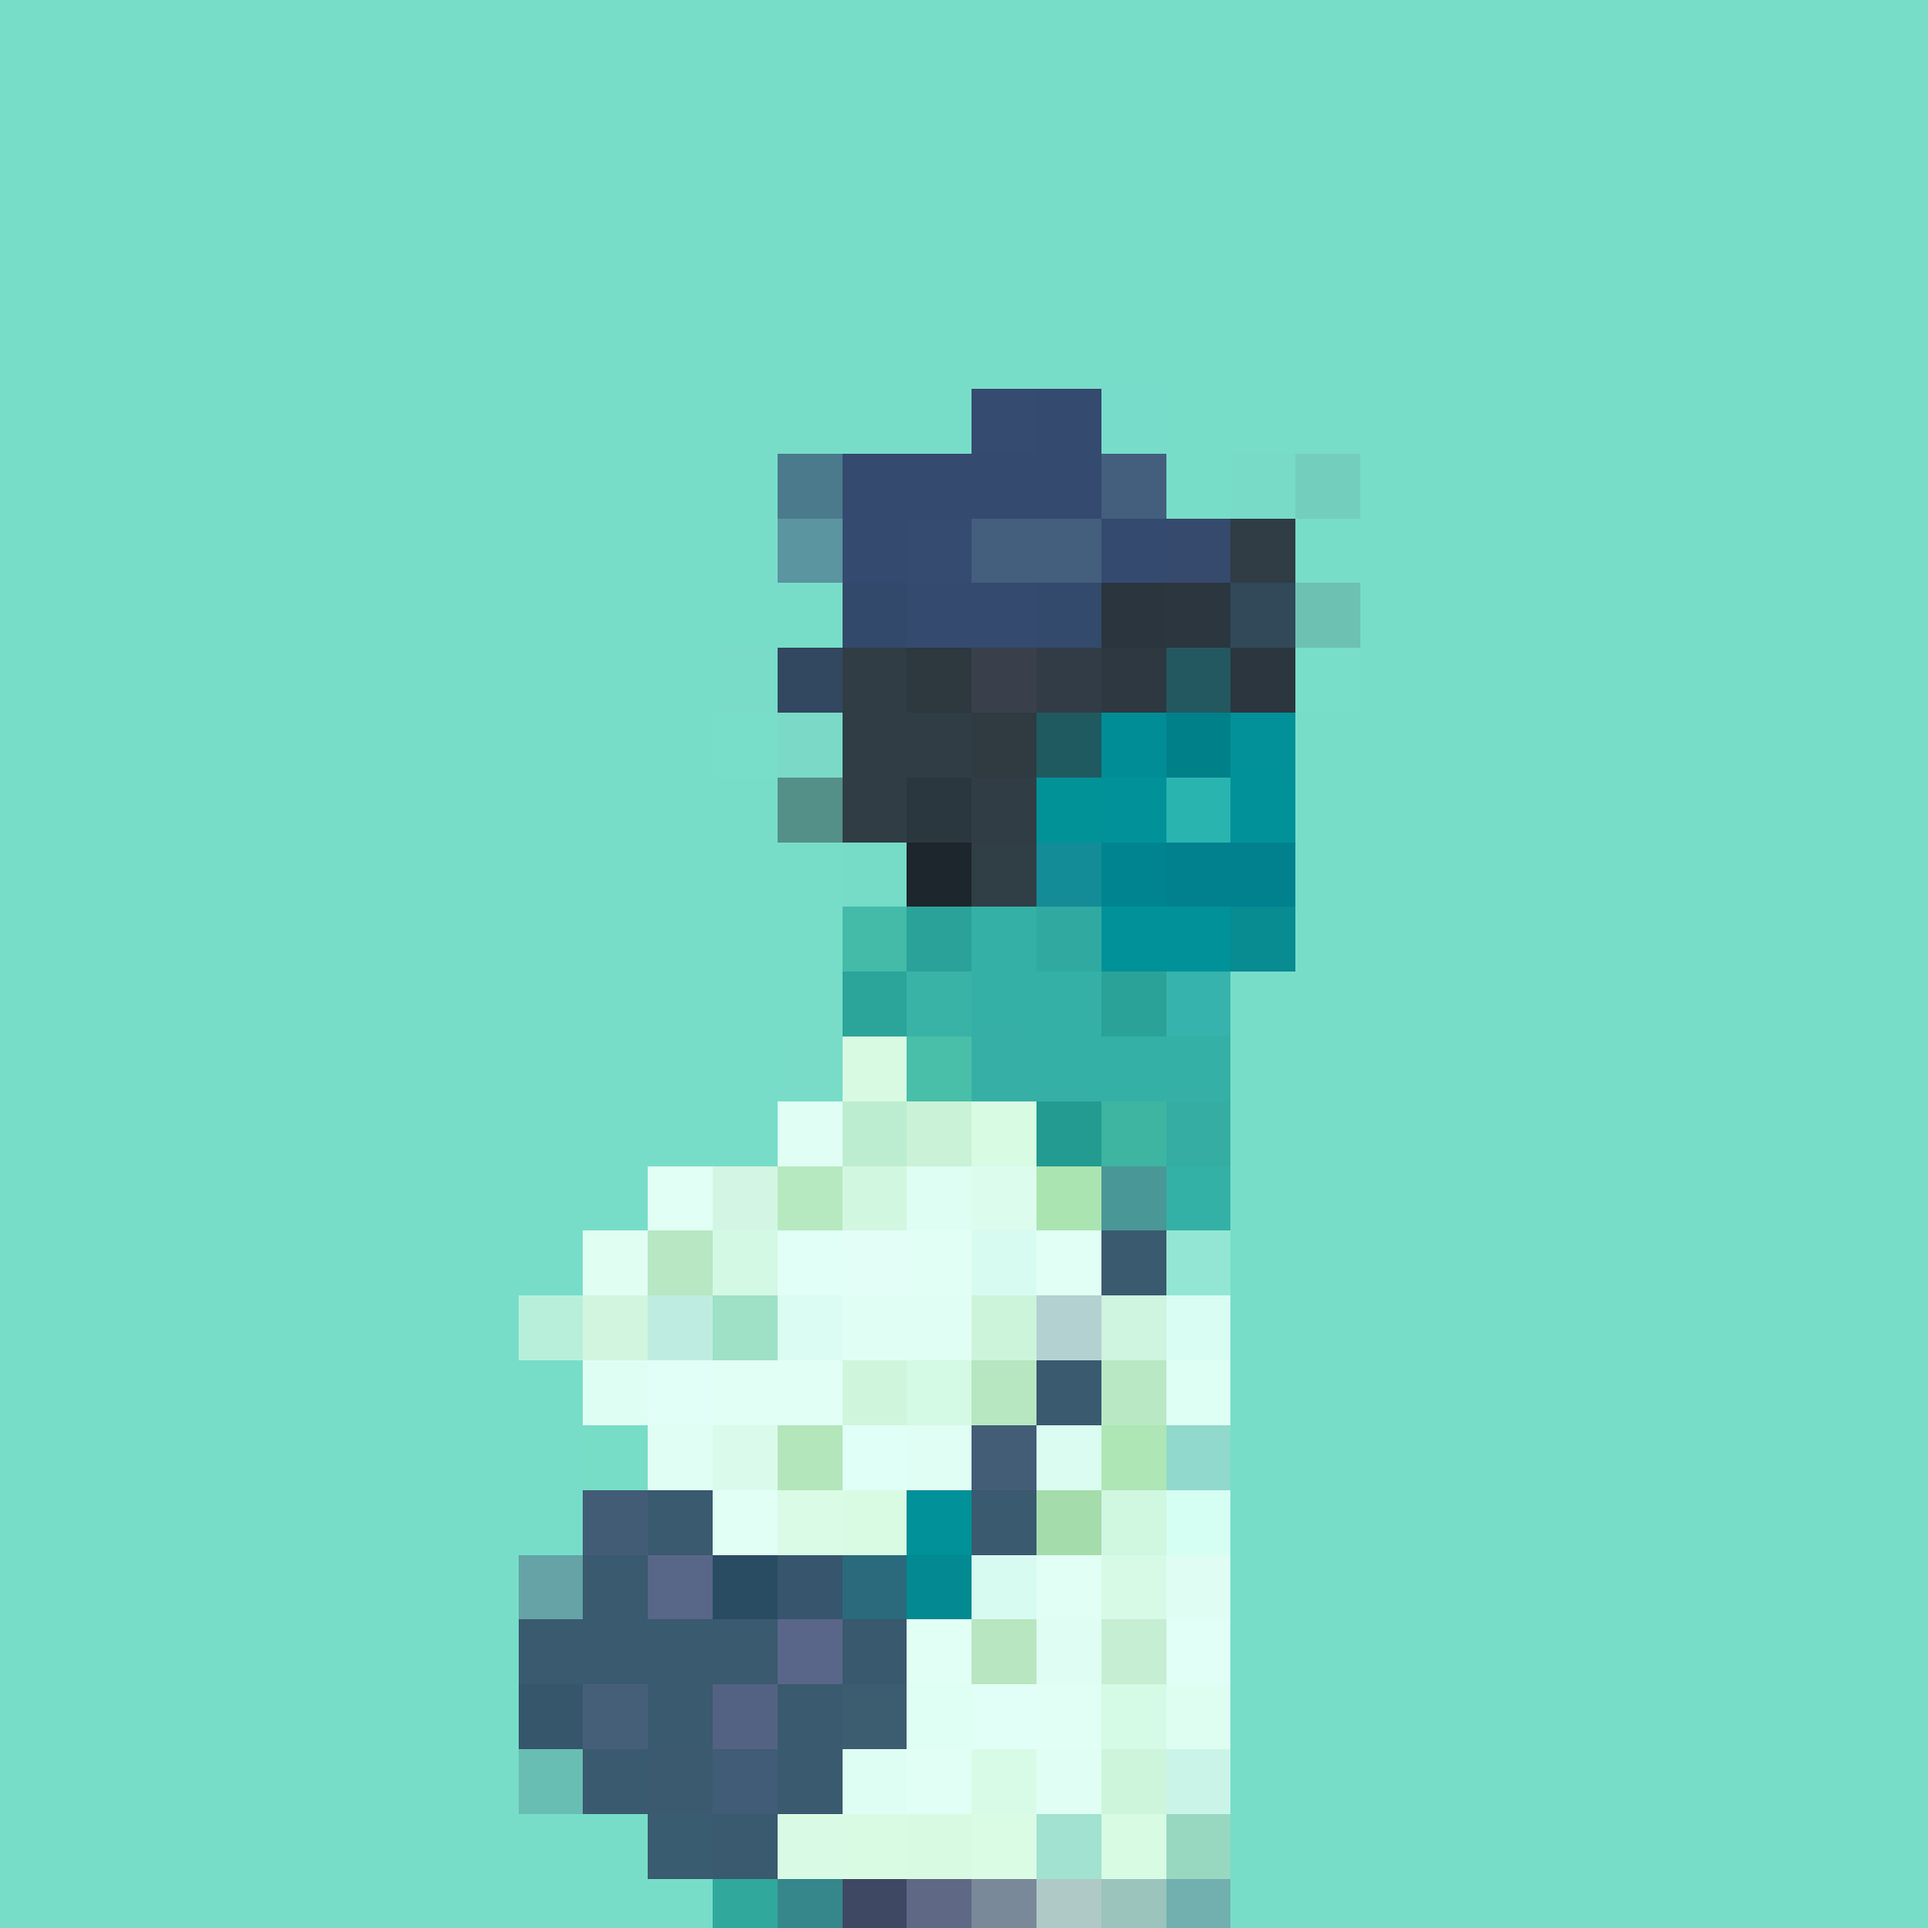
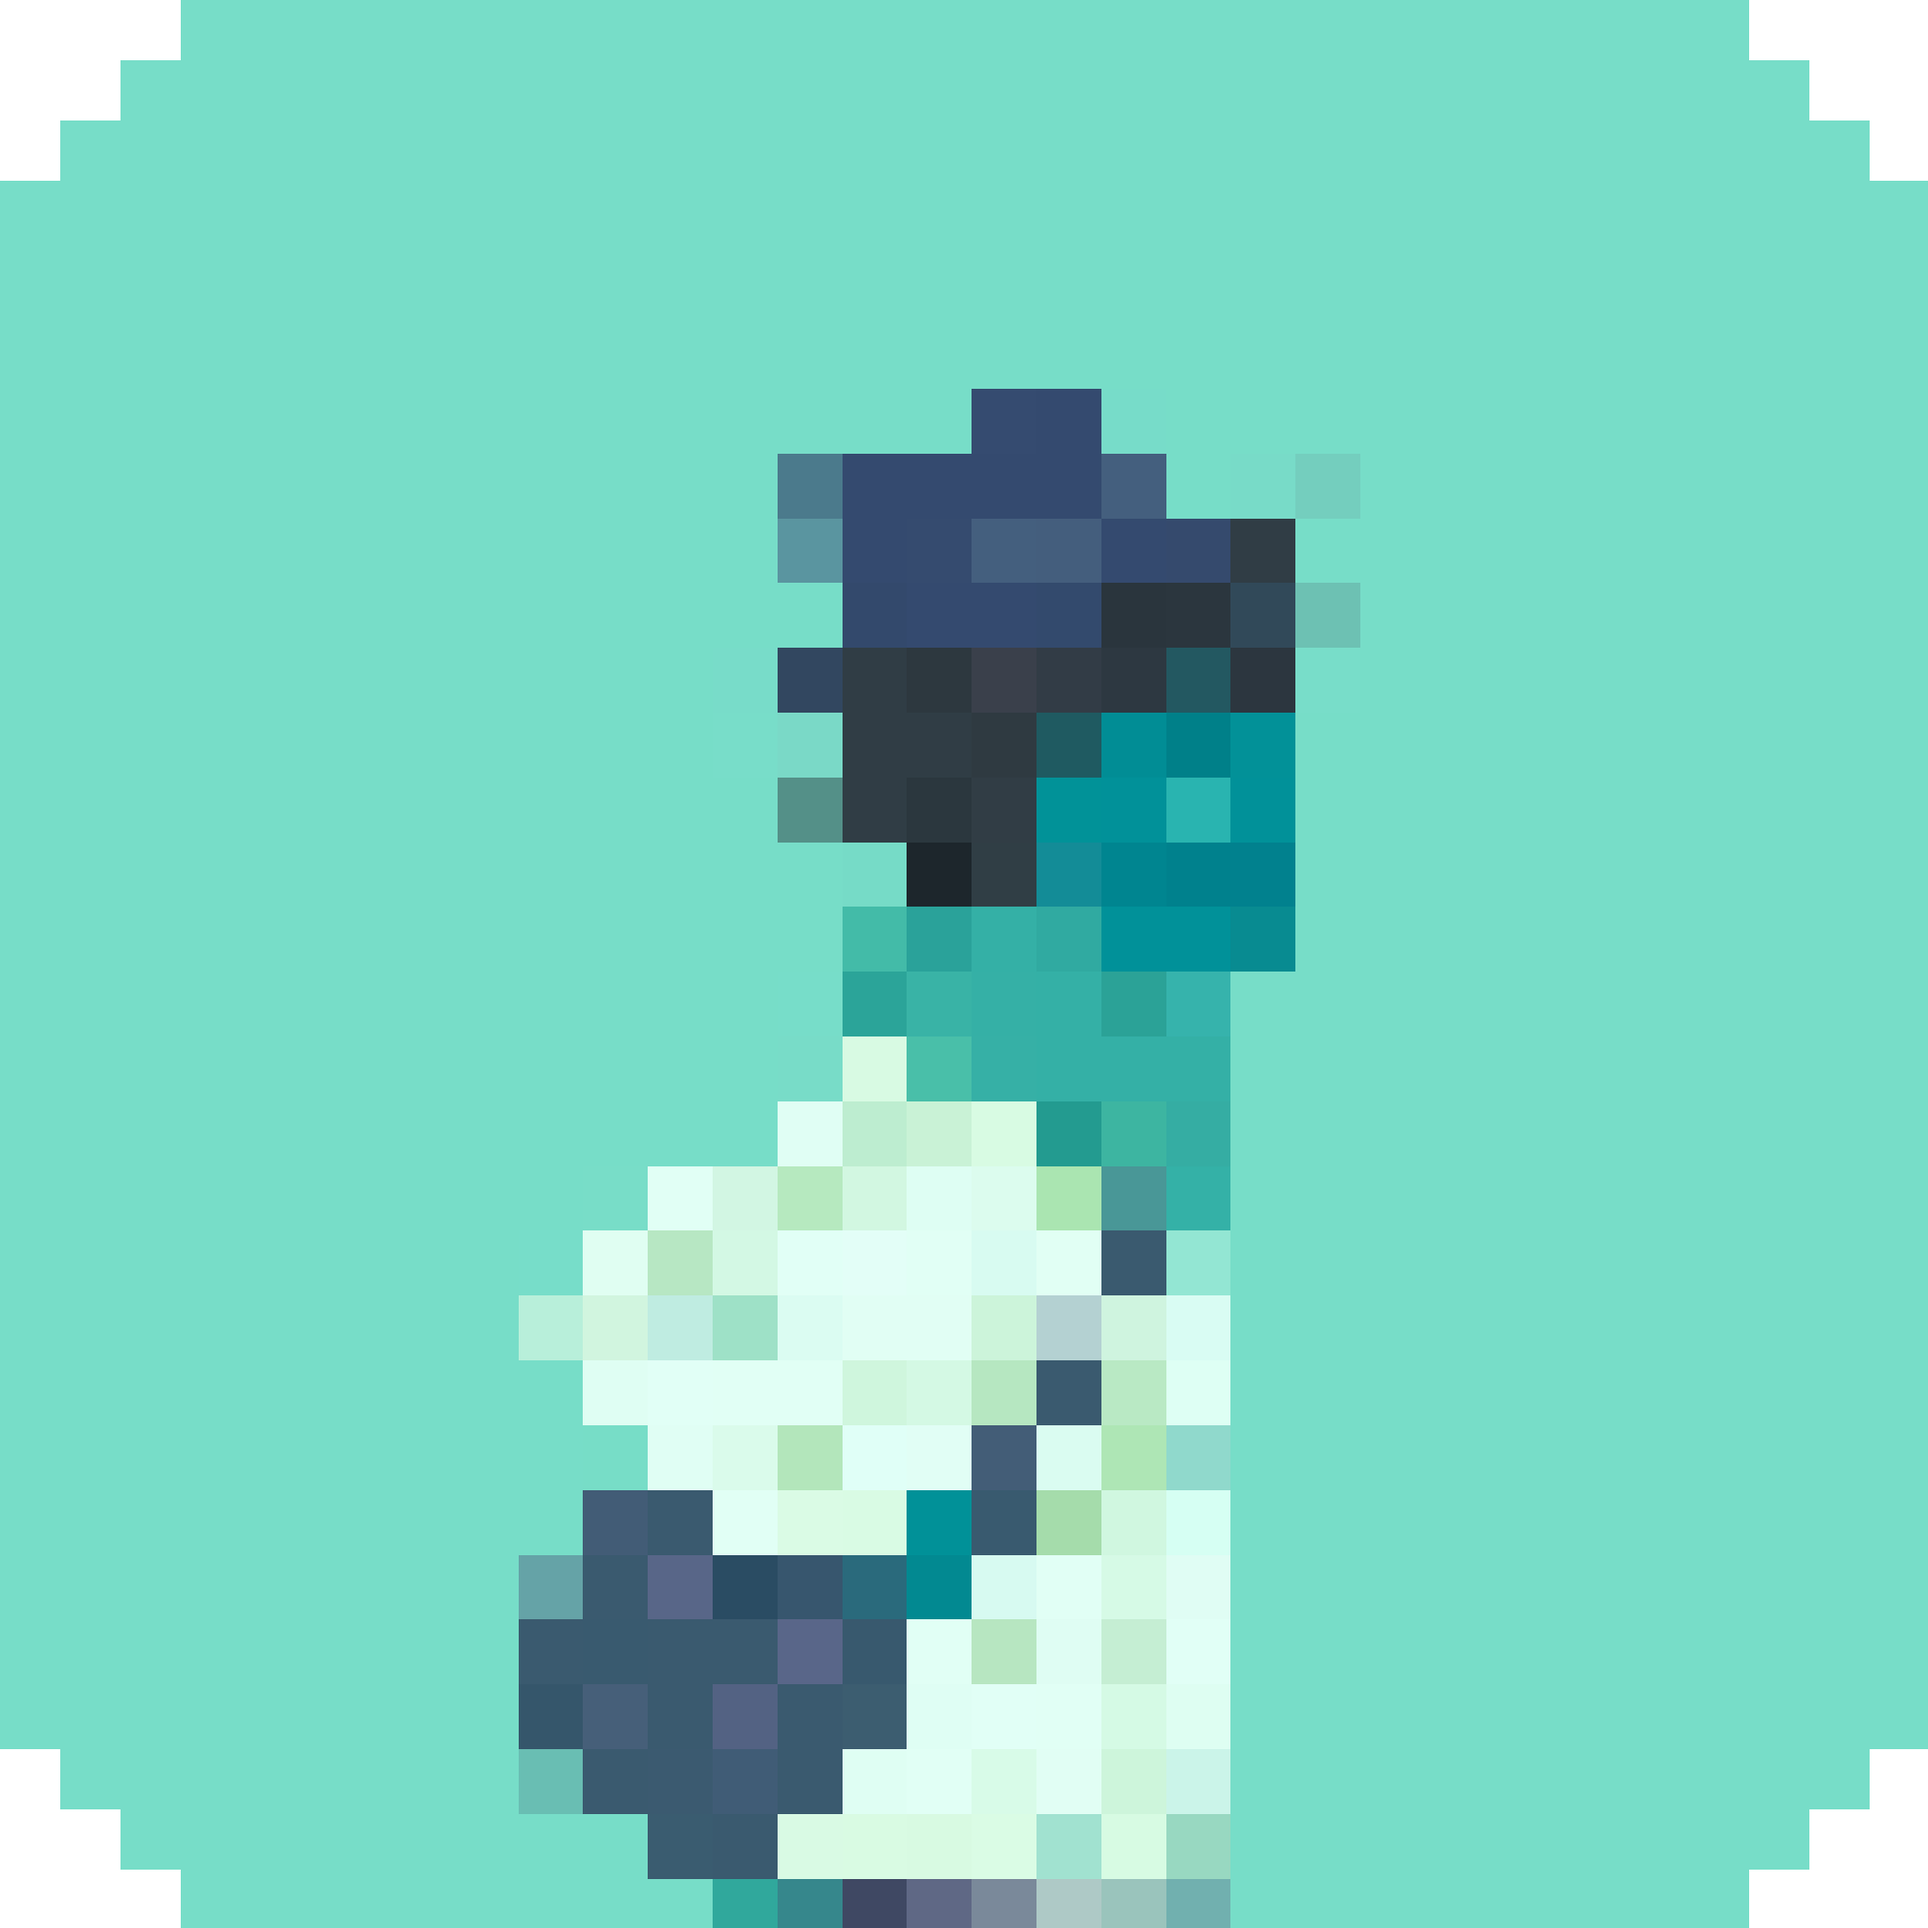
Update content

diff --git a/src/components/home/Header.module.css b/src/components/home/Header.module.css
@@ -9,21 +9,6 @@ body {
 }
 */
 
-.pixel-clip-border {
-    clip-path:
-        polygon(0% 0%, 100% 0%, 100% 100%, 0% 100%,
-            /* 기본 사각형 */
-            0% 0%, 5% 0%, 5% 5%, 0% 5%,
-            /* 좌상단 계단 */
-            95% 0%, 100% 0%, 100% 5%, 95% 5%
-            /* 우상단 계단 */
-        );
-    background: #000;
-    /* 테두리 색 */
-    padding: 5px;
-    /* 테두리 두께 */
-}
-
 .welcome-header {
     text-align: center;
     display: flex;
@@ -36,7 +21,6 @@ body {
 .welcome-header img {
     width: auto;
     height: 15vh;
-    border-radius: 5%;
     margin-bottom: 0vh;
     margin-top: 4vh;
 }

diff --git a/src/components/home/Header.jsx b/src/components/home/Header.jsx
@@ -6,12 +6,7 @@ import profileImage from "../../assets/profile_pixelate.png";
 export function Header() {
   return (
     <header className={classes["welcome-header"]}>
-      {
-        // <img src={profileImage} alt="tongstar's profile image" /> 
-      }
-      <div class="pixel-clip-border">
-        <img src={profileImage} alt="tongstar's profile image" />
-      </div>
+      <img src={profileImage} alt="tongstar's profile image" />
       <h1>Welcome!</h1>
       <p>{"This is the blog of tongstar.\nFeel free to look around!"}</p>
       <nav>
